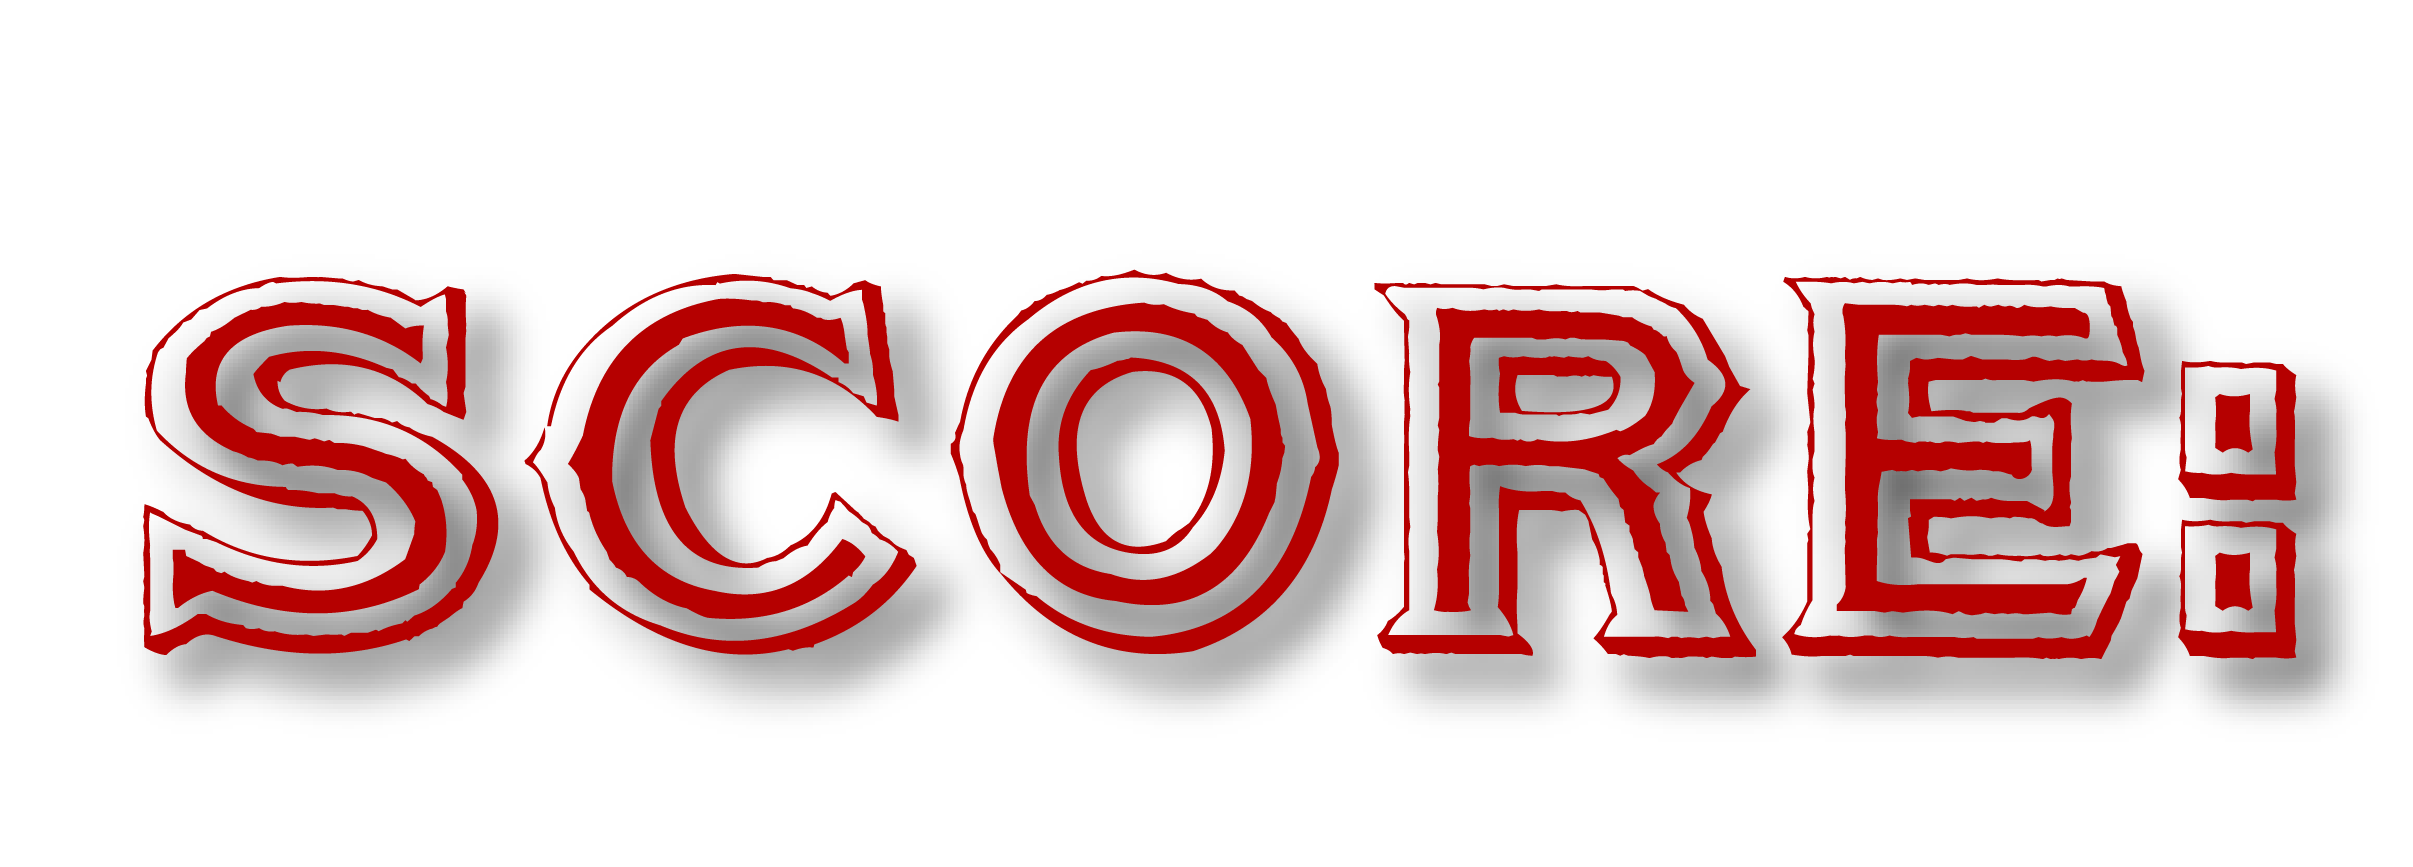
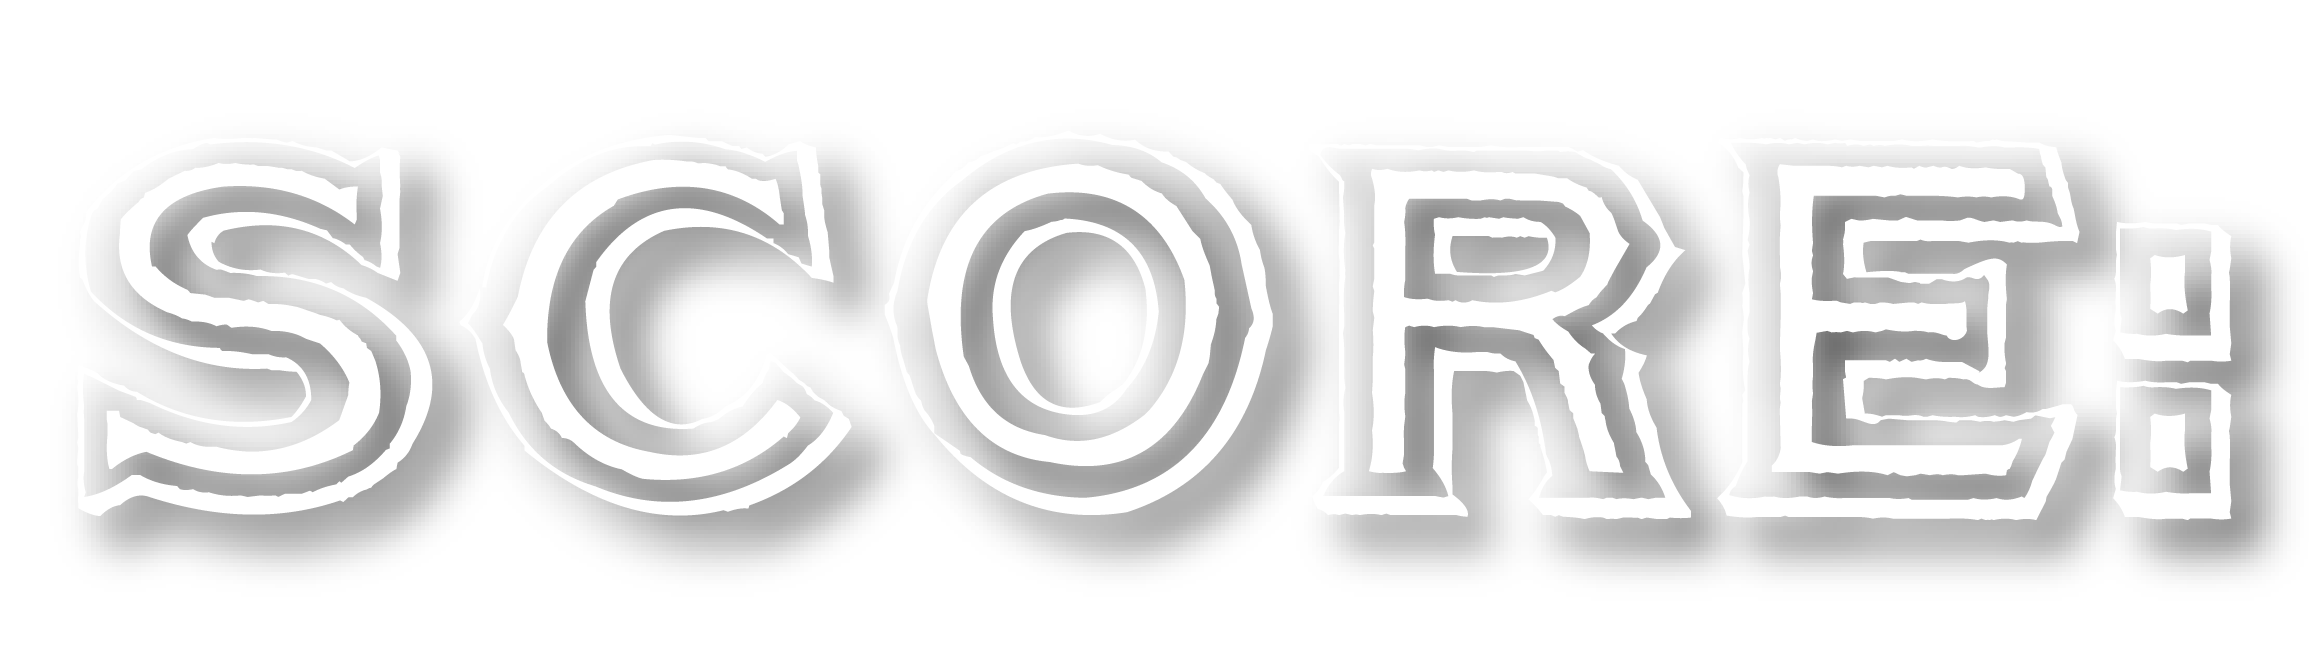
add floor, check modales

diff --git a/code.js b/code.js
@@ -1,12 +1,10 @@
 let btnStart = document.getElementsByClassName("start")[0];
 btnStart.addEventListener("click", () =>{
-    console.log("start....")
     clearInterval(idInterval);
     iniciarJuego();
 });
 let btnStart2 = document.getElementsByClassName("start")[1];
 btnStart2.addEventListener("click", () =>{
-    console.log("start....")
     clearInterval(idInterval);
     iniciarJuego();
 });
@@ -16,7 +14,7 @@ let idInterval;
 //CANVAS
 let lienzo = document.getElementById("lienzo");
 let ctx = lienzo.getContext("2d");
-console.log(lienzo);
+
 
 //MODAL
 const modal = document.querySelector(".modal");
@@ -61,16 +59,14 @@ scoreImg.src = "images/score.png"
 const tituloImg = new Image ()
 tituloImg.src = "images/titulo.png"
 
-const grassImg = new Image ()
-grassImg.src = "images/grass.png"
+const floorImg = new Image ()
+floorImg.src = "images/floor.png"
 
 //ARRAYS DE ENEMIGOS Y FLECHAS
 const enemigosArray = [];
 const flechasArray = [];
 const mascarasArray =[];
 
-
-//console.log(mascarasArray);
 
 //PERSONAJE: ASHITAKA
 class Heroe {
@@ -112,7 +108,6 @@ class Heroe {
     lanzarFlechas(){
         const lanzaFlecha = new Flechas(this.x + this.w, this.y + 80, 70, 80, flechaImg);
         flechasArray.push(lanzaFlecha);
-        console.log("lanzando flechas!!")
     }
     morir(){}
     dibujarse(){
@@ -180,15 +175,14 @@ class Vidas {
         ctx.drawImage(this.image, this.x ,this.y,this.w, this.h);
     } 
 }//         instanciar un objeto
-let vida1 = new Vidas (150,50,80,80, halfMaskImg);
-let vida2 = new Vidas (150,50,80,80, maskImg);
-let vida3 = new Vidas (230,50,80,80, halfMaskImg);
-let vida4 = new Vidas (230,50,80,80, maskImg);
-let vida5 = new Vidas (310,50,80,80, halfMaskImg);
-let vida6 = new Vidas (310,50,80,80, maskImg);
+let vida1 = new Vidas (210,50,80,80, halfMaskImg);
+let vida2 = new Vidas (210,50,80,80, maskImg);
+let vida3 = new Vidas (300,50,80,80, halfMaskImg);
+let vida4 = new Vidas (300,50,80,80, maskImg);
+let vida5 = new Vidas (390,50,80,80, halfMaskImg);
+let vida6 = new Vidas (390,50,80,80, maskImg);
 
 const vidasArray = [vida1, vida2, vida3, vida4, vida5, vida6];
-//console.log(vidasArray)
 function dibujarVidas(heroevida){
     for (let i = 0; i < heroevida; i++) {
         vidasArray[i].dibujarse();
@@ -198,7 +192,7 @@ function dibujarVidas(heroevida){
 
 // PISO
 function dibujarPiso(){
-    //ctx.drawImage(0,650,1600,300, grassImg);
+    ctx.drawImage(floorImg, 0,450,1600,500);
     //ctx.fillStyle = "green";
     //ctx.fillRect(0,650, 1600,300);
     
@@ -208,44 +202,37 @@ function dibujarPiso(){
 
 //ENCABEZADO
 function headerDatos(vida, score) {
-    ctx.font = "30px Open Sans";
-    ctx.fillStyle = "black";
-    ctx.fillText("Princess Mononoke", 580, 80);
-    ctx.fillText(`Vida:`, 25, 80);
-    ctx.fillText(`${score}`, 1100, 80);
-    //ctx.drawImage(10,50,40,30,livesImg);
+    ctx.font = "80px Open Sans";
+    ctx.fillStyle = "white";
+    ctx.fillText(`${score}`, 1400, 120);
+    ctx.drawImage(livesImg, 10, 50, 190, 70);
+    ctx.drawImage(scoreImg, 1200, 50, 190, 70);
+    ctx.drawImage(tituloImg, 650, 50, 350, 150);
 }
-headerDatos();
 
 //ESCUCHAR TECLAS
 function teclas(heroe) {
     document.addEventListener("keyup", (evento)=> {
-        console.log("teclaaa", evento.code);
         switch (evento.code) {
             case "ArrowUp":
                 heroe.subir();
-                //console.log("Saltar");
                 
                 break;
             case "ArrowRight":
-                //console.log("Avanza");
                 heroe.avanzar();
                 break;
             case "ArrowLeft":
-                //
-                console.log("Back up");
+                 ("Back up");
                 heroe.retroceder();
                 break;
             case "KeyC":
-                //console.log("Lanza flechaaa");
                 heroe.lanzarFlechas();
                 break;
             case "Space":
-                //console.log("Lanza flechaaa");
                 heroe.saltar();
                 break;
             case "ArrowDown":
-                console.log("Baja");
+            
                 heroe.bajar();
                 break;
         }
@@ -256,7 +243,7 @@ function teclas(heroe) {
 //CREAR ENEMIGOS RANDOM
 function crearEnemigos(){
     let num = Math.floor(Math.random() * 100)
-    let alturaRandom = Math.floor(Math.random() * (700 - 500) + 500)
+    let alturaRandom = Math.floor(Math.random() * (700 - 550) + 550)
     if (num == 6){
         const enemigo = new Enemigo (1700, alturaRandom, 200, 170,enemigoImg);
         enemigosArray.push(enemigo);
@@ -268,7 +255,6 @@ function crearMascaras(){
      if (num == 2) {
         const mask = new Mascaras (1700, 300, 100,100, maskImg);
         mascarasArray.push(mask);
-        //console.log("mascaraa");
      }
 }
 
@@ -295,7 +281,6 @@ idInterval = setInterval(()=>{
                 heroe.y -= 12; // la "rapidez"
                 heroe.x += 5; // avanza
             }else{ //bajarlo
-                //console.log("bajate")
                 heroe.saltando = false;
             }
         }
@@ -310,9 +295,10 @@ idInterval = setInterval(()=>{
                 enemigosArray.splice(i,1);
                 if (heroe.vida >= 1){
                     heroe.vida -= 1;
-                } else if (heroe.vida <= 1){
+                    if (heroe.vida == 0){
                     clearInterval(idInterval);
                     toggleModal();
+                } 
                 }
 
                 

diff --git a/styles.css b/styles.css
@@ -4,24 +4,26 @@
 }
 body{
     font-family: 'Open Sans', sans-serif;
-    background-color: rgb(14, 210, 43);
-    width: 100vw;
-    height: 100vh;
-   
+    background-color: rgb(231, 51, 51);
 }
+
 .frame{
-    /*background-image: url("images/frame.png"); */
-    background-size: cover;
-    background-repeat: no-repeat;
-}
+        background-color: rgb(3, 87, 55,0.8);
+        width: 100vw;
+        height:100vh;
+        background-image: url("images/frame.png");
+        background-size: cover;
+        background-repeat: no-repeat;
+        position: relative;
+    }
+
 canvas {
-    margin: 50px 50px;
+    margin: 200px 290px;
     background-image: url("images/fondoanimated.gif"); 
     background-repeat: no-repeat;
     background-size: cover;
     position: relative;
-    /*top: 6rem;
-    left: 8rem; */
+   
 }
 
 a {
@@ -56,14 +58,12 @@ a {
   }
  
 .modal {
+    background-color: blueviolet;
     margin: 0px 800px;
-    width: 50%;
-    height: 200%;
     opacity: 0;
     visibility: hidden;
     transform: scale(1.1);
     transition: visibility 0s linear 0.25s, opacity 0.25s 0s, transform 0.25s;
-    display: flex;
 }
 .modal-winner {
     margin: 0px 800px;
@@ -73,7 +73,7 @@ a {
     visibility: hidden;
     transform: scale(1.1);
     transition: visibility 0s linear 0.25s, opacity 0.25s 0s, transform 0.25s;
-    display: flex;
+   
 }
 
 .modal-content {
@@ -85,7 +85,7 @@ a {
     background-image: url("images/youlost.gif");
     background-repeat: no-repeat;
     background-position: stretch;    
-background-size: 100% 100%;
+    background-size: 100% 100%;
     padding: 50px;
     border-radius: 20px;
     margin: 30px;

diff --git a/index.html b/index.html
@@ -12,8 +12,8 @@
 <link href="https://fonts.googleapis.com/css2?family=Open+Sans&display=swap" rel="stylesheet">
 </head>
 <body>
-    <div class="frame">
-        <canvas id="lienzo" width="1600" height="900"></canvas>
+   <div class="frame">   
+    <canvas id="lienzo" width="1600" height="900"></canvas>
             <div class="modal">
                 <div class="modal-content img">
                     <img src="images/gameover.png" alt="gameover" width="600px" height="300px">
@@ -27,11 +27,11 @@
                     <p>Together we can continue our mission and bring peace to the world.<br> Want to do it again?</p>
                     <div class="start close-button-winner btn-button">Let's Go!</div>
             </div>
-            <!--<audio controls autoplay loop>
-                <source src="music/videogame.mp3" type="audio/mp3">
-            </audio>-->
-        </div>
-    </div>ccc
+  
+    <!--<audio controls autoplay loop>
+        <source src="music/videogame.mp3" type="audio/mp3">
+    </audio>-->
+</div>  
     <script src="code.js"></script>
 </body>
 </html>
